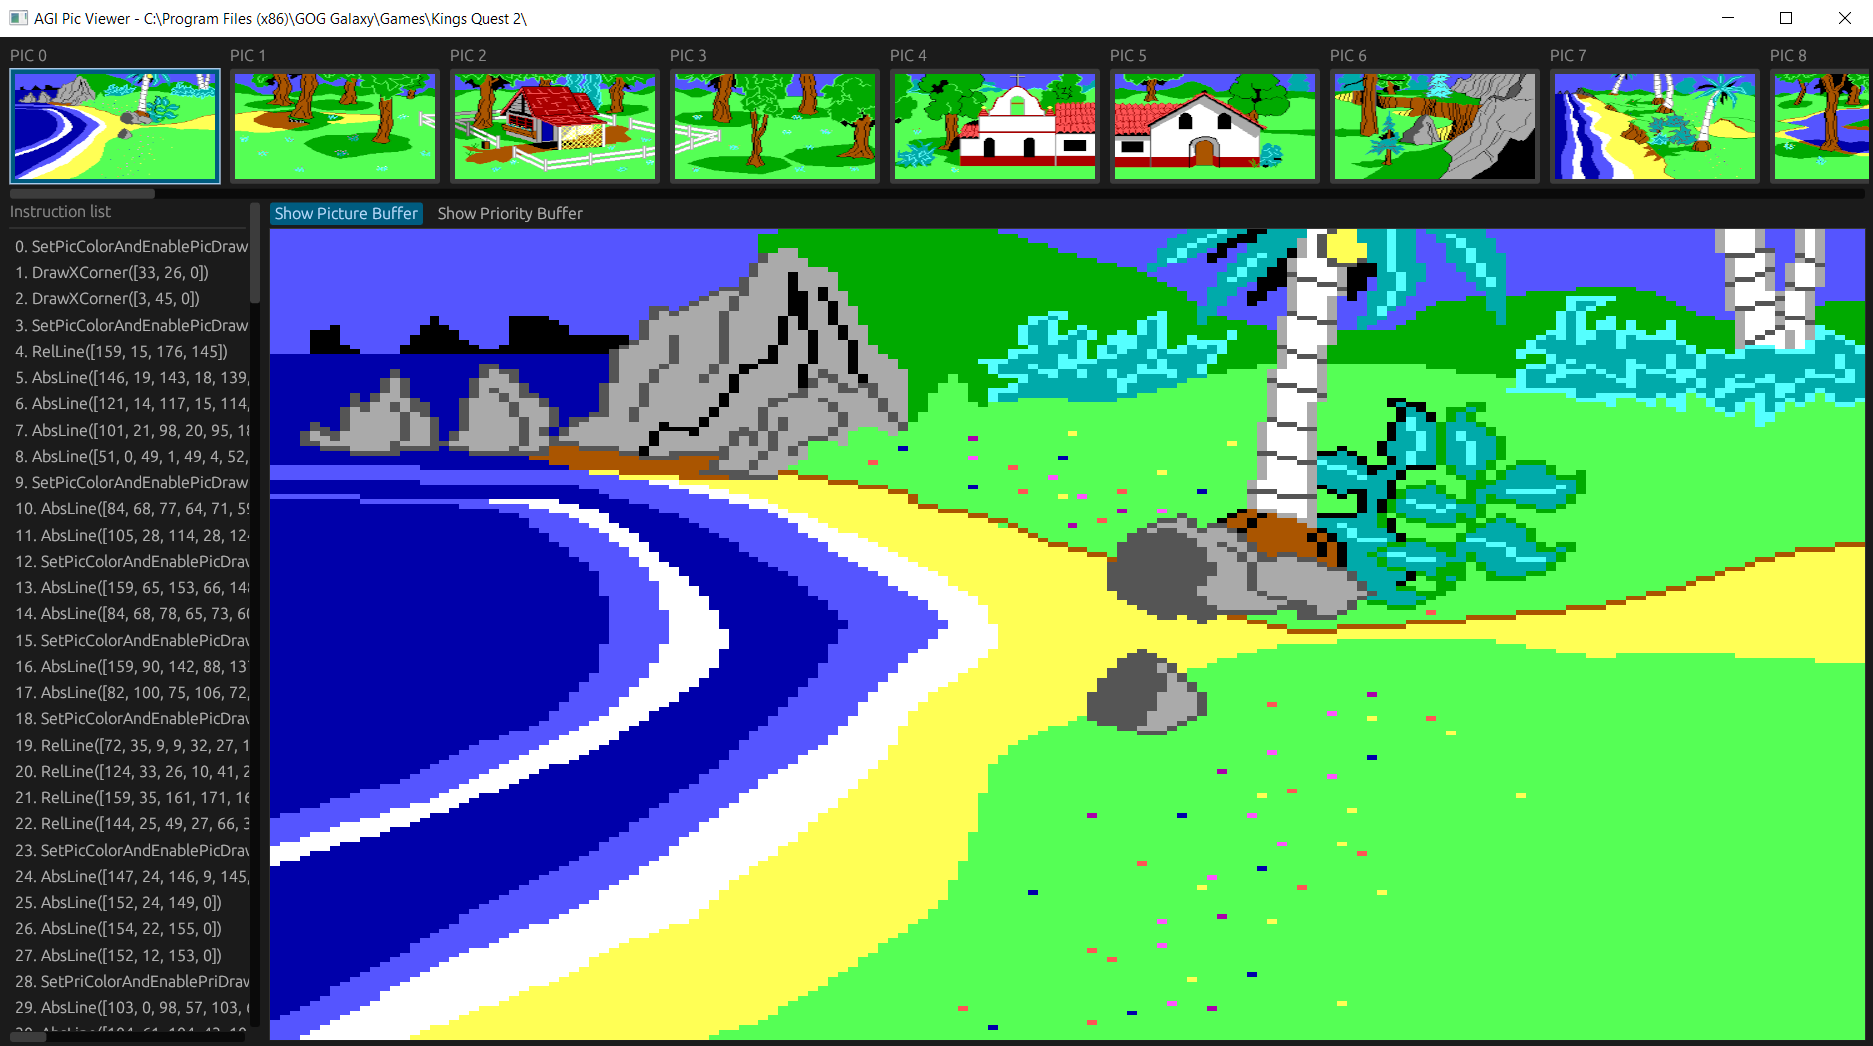
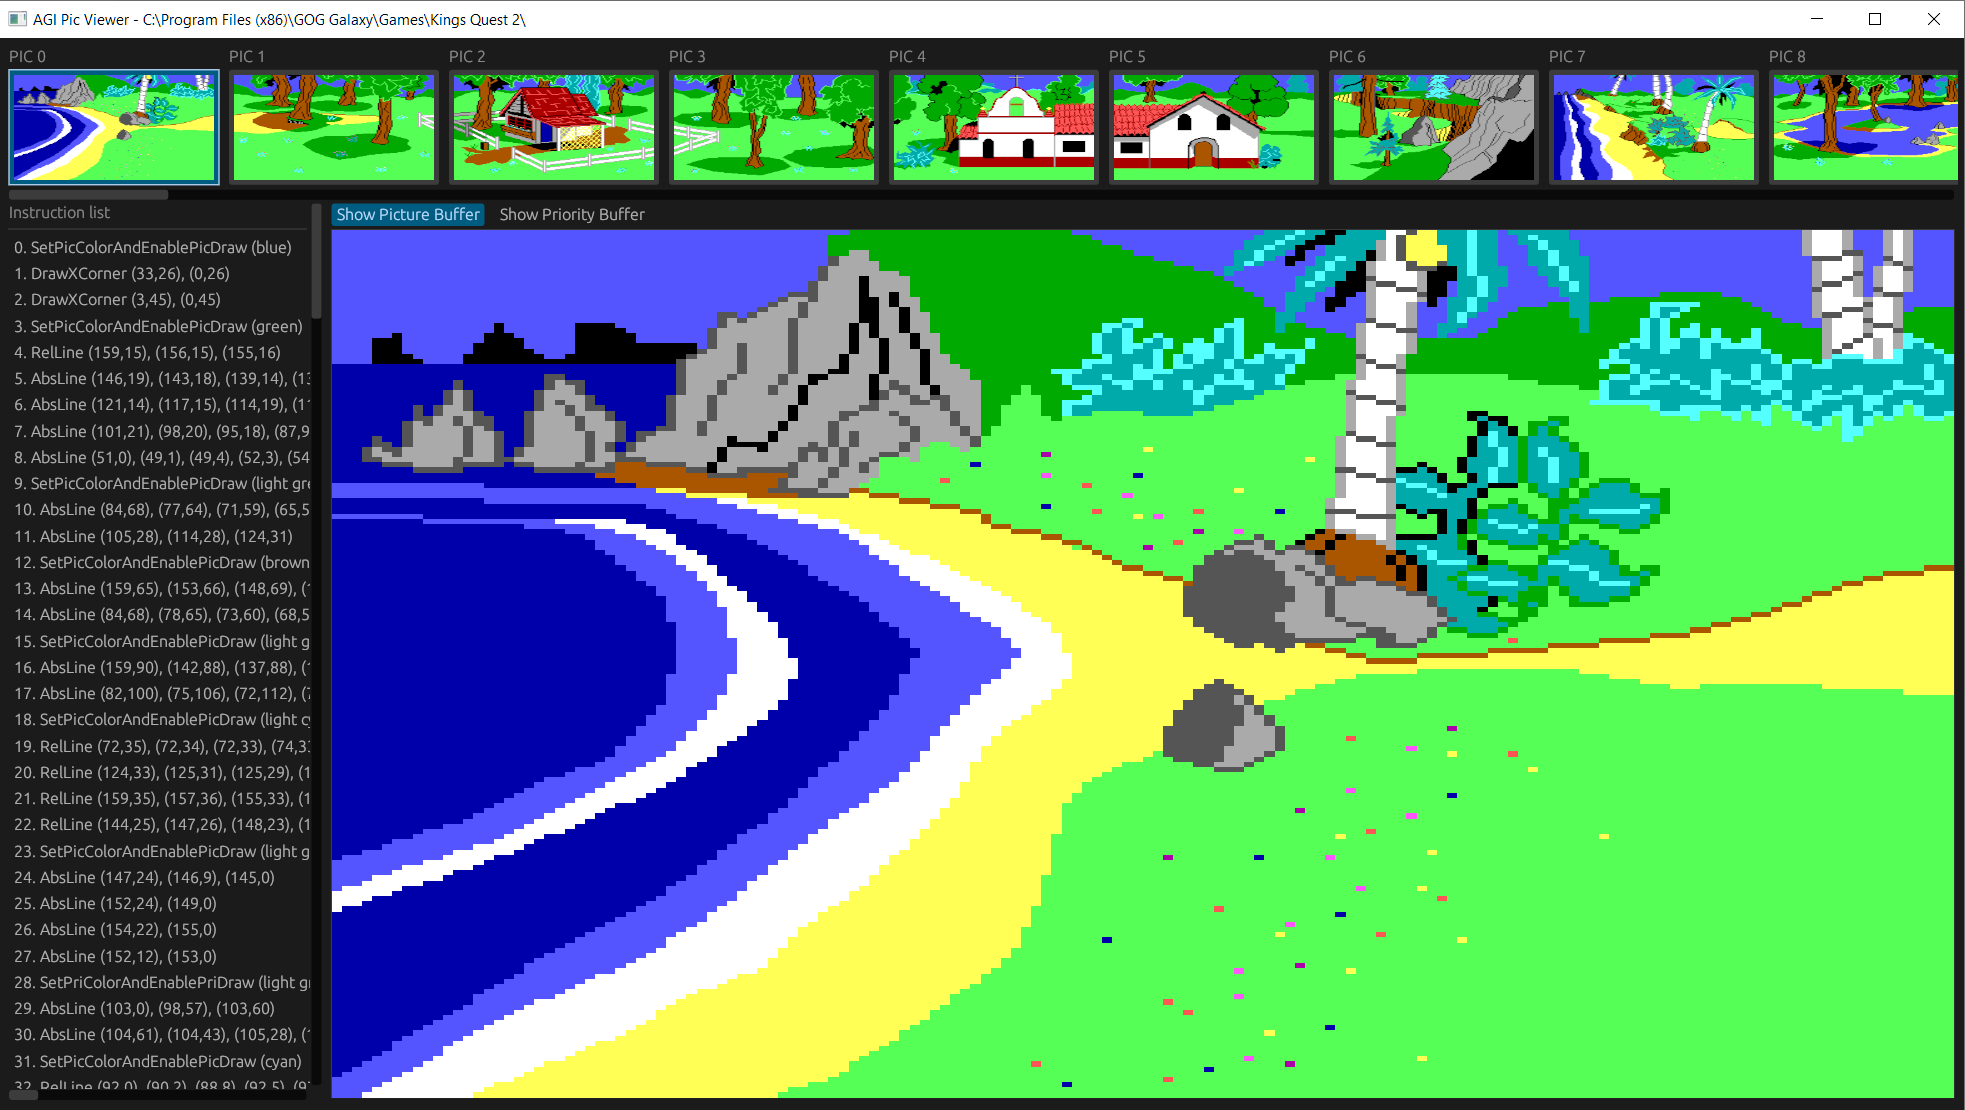
Fix out of bounds issue with empty lines parameters

diff --git a/src/agi_types/pic_render.rs b/src/agi_types/pic_render.rs
@@ -125,64 +125,66 @@ pub fn render_pixels(instructions : &[DerivedPicRenderInstruction], pic_buffer :
 
 fn draw_lines(lines : &Vec<PosU8>, pic_buffer : &mut Option<&mut PixelBuffer>, pic_color : Option<u8>, pri_buffer : &mut Option<&mut PixelBuffer>, pri_color : Option<u8>, instruction_index : usize) -> Result<(), AgiError> {
 
-    let (mut x1, mut y1) = (lines[0].x as usize, lines[0].y as usize);
+    if lines.len() > 0 {
+        let (mut x1, mut y1) = (lines[0].x as usize, lines[0].y as usize);
 
-    let mut set_buffers_pixels = |x : usize, y : usize, sub_index : usize| -> Result<(), AgiError> {
-
-        if let Some(pic_buffer) = pic_buffer {
-            pic_buffer.set_pixel(x, y, pic_color, InstructionIndex::new_sub(instruction_index, sub_index))?;
-        }
-
-        if let Some(pri_buffer) = pri_buffer {
-            pri_buffer.set_pixel(x, y, pri_color, InstructionIndex::new_sub(instruction_index, sub_index))?;
-        }
-
-        Ok(())
-    };
-
-    if lines.len() == 1 {
-        // Just draw a single pixel
-        set_buffers_pixels(x1, y1, 0)?;
-    } else {
-        for (line_index, line) in lines.iter().enumerate().skip(1) {
-            let (x2, y2) = (line.x as usize, line.y as usize);
-
-            let (height, width) = (y2 as i32 - y1 as i32, x2 as i32 - x1 as i32);
-
-            let mut add_x = if height == 0 { 0.0 } else { width as f32 / (height as f32).abs() };
-            let mut add_y = if width == 0 { 0.0 } else { height as f32 / (width as f32).abs() };
-
-            let (mut x, mut y) = (x1 as f32, y1 as f32);
-            if width.abs() > height.abs() {
-                add_x = width.signum() as f32;
-                
-                while (x - x2 as f32).abs() > f32::EPSILON {
-                    set_buffers_pixels(
-                        sierra_round(x, add_x),
-                        sierra_round(y, add_y),
-                        line_index)?;
-
-                    x += add_x;
-                    y += add_y;
-                }
-
-                set_buffers_pixels(x2, y2, line_index)?;
-            } else {
-                add_y = height.signum() as f32;
-
-                while (y - y2 as f32).abs() > f32::EPSILON {
-                    set_buffers_pixels(
-                        sierra_round(x, add_x),
-                        sierra_round(y, add_y),
-                        line_index)?;
-
-                    x += add_x;
-                    y += add_y;
-                }
-                set_buffers_pixels(x2, y2, line_index)?;
+        let mut set_buffers_pixels = |x : usize, y : usize, sub_index : usize| -> Result<(), AgiError> {
+    
+            if let Some(pic_buffer) = pic_buffer {
+                pic_buffer.set_pixel(x, y, pic_color, InstructionIndex::new_sub(instruction_index, sub_index))?;
             }
-
-            (x1, y1) = (x2, y2)
+    
+            if let Some(pri_buffer) = pri_buffer {
+                pri_buffer.set_pixel(x, y, pri_color, InstructionIndex::new_sub(instruction_index, sub_index))?;
+            }
+    
+            Ok(())
+        };
+    
+        if lines.len() == 1 {
+            // Just draw a single pixel
+            set_buffers_pixels(x1, y1, 0)?;
+        } else {
+            for (line_index, line) in lines.iter().enumerate().skip(1) {
+                let (x2, y2) = (line.x as usize, line.y as usize);
+    
+                let (height, width) = (y2 as i32 - y1 as i32, x2 as i32 - x1 as i32);
+    
+                let mut add_x = if height == 0 { 0.0 } else { width as f32 / (height as f32).abs() };
+                let mut add_y = if width == 0 { 0.0 } else { height as f32 / (width as f32).abs() };
+    
+                let (mut x, mut y) = (x1 as f32, y1 as f32);
+                if width.abs() > height.abs() {
+                    add_x = width.signum() as f32;
+                    
+                    while (x - x2 as f32).abs() > f32::EPSILON {
+                        set_buffers_pixels(
+                            sierra_round(x, add_x),
+                            sierra_round(y, add_y),
+                            line_index)?;
+    
+                        x += add_x;
+                        y += add_y;
+                    }
+    
+                    set_buffers_pixels(x2, y2, line_index)?;
+                } else {
+                    add_y = height.signum() as f32;
+    
+                    while (y - y2 as f32).abs() > f32::EPSILON {
+                        set_buffers_pixels(
+                            sierra_round(x, add_x),
+                            sierra_round(y, add_y),
+                            line_index)?;
+    
+                        x += add_x;
+                        y += add_y;
+                    }
+                    set_buffers_pixels(x2, y2, line_index)?;
+                }
+    
+                (x1, y1) = (x2, y2)
+            }
         }
     }
 

diff --git a/src/main.rs b/src/main.rs
@@ -155,7 +155,7 @@ impl eframe::App for AgiViewerApp {
                 ui.horizontal_centered(|ui| {
                     // Add the instruction list
                     ui.vertical(|ui| {
-                        ui.set_max_width(300.);
+                        ui.set_max_width(250.);
                         ScrollArea::both().auto_shrink([false; 2]).show(ui, |ui| {
                             ui.label("Instruction list");
                             ui.separator();
